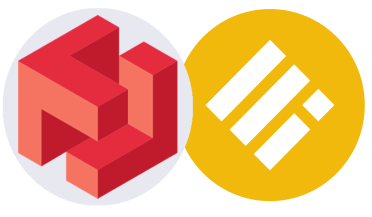
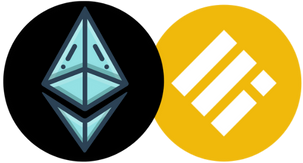
intial

diff --git a/public/index.html b/public/index.html
@@ -10,24 +10,24 @@
     <link href="https://fonts.googleapis.com/css2?family=Lato&display=swap" rel="stylesheet">
     <!--<link href="https://fonts.googleapis.com/css2?family=Kanit:wght@400;600&display=swap" rel="stylesheet" />--> 
     <link href="https://fonts.googleapis.com/css2?family=Bungee+Inline&display=swap" rel="stylesheet">
-    <link rel="shortcut icon" href="%PUBLIC_URL%/IBG.ico" />
+    <link rel="shortcut icon" href="%PUBLIC_URL%/GETh.ico" />
     <link rel="apple-touch-icon" href="%PUBLIC_URL%/logo.png" />
     <link rel="manifest" href="%PUBLIC_URL%/manifest.json" />
     <!-- Meta -->
-    <title>DCXa</title>
+    <title>GravityETH</title>
     <meta
       name="description"
-      content="Cheaper and faster than Uniswap? Discover DCXa Finance, the leading DEX on Binance Smart Chain (BSC) with the best finance in DeFi and a lottery for DCXa."
+      content="Cheaper and faster than Uniswap? Discover GravityETH Finance, the leading DEX on Binance Smart Chain (BSC) with the best finance in DeFi and a lottery for GravityETH."
     />
     <meta name="viewport" content="width=device-width, initial-scale=1, maximum-scale=5, minimum-scale=1" />
     <meta name="theme-color" content="#000000" />
     <meta name="twitter:image" content="" />
     <meta
       name="twitter:description"
-      content="The most popular AMM on BSC by user count! Earn DCXa through yield  or win it in the Lottery, then stake  to earn more DCXa! Initial Farm Offerings (new token launch model pioneered by DCXa Finance), NFTs, and more, on a platform you can trust."
+      content="The most popular AMM on BSC by user count! Earn GravityETH through yield  or win it in the Lottery, then stake  to earn more GravityETH! Initial Farm Offerings (new token launch model pioneered by GravityETH Finance), NFTs, and more, on a platform you can trust."
     />
     <meta name="twitter:card" content="summary" />
-    <meta name="twitter:title" content="DCXa Finance - A next evolution DeFi exchange on Binance Smart Chain (BSC)" />
+    <meta name="twitter:title" content="GravityETH Finance - A next evolution DeFi exchange on Binance Smart Chain (BSC)" />
   </head>
   <body>
     <noscript>You need to enable JavaScript to run this app.</noscript>

diff --git a/src/config/constants/farms.ts b/src/config/constants/farms.ts
@@ -6,14 +6,14 @@ const farms: FarmConfig[] = [
     pid: 0,
     risk: 5,
     isTokenOnly: true,
-    lpSymbol: 'DCXa',
+    lpSymbol: 'GravityETH',
     lpAddresses: {
       97: '',
       1: '0xfecc3b6fab9e07e1f2e6c712d17f86ff2b5ee5ac',
       56: '0xe1F93A26D599aBd6eD93F69f4B2a8567FC9a0aba', // EGG-BUSD LP
       3: '0x72A24b4CD7Dae850250dFDdcdCC2359E26C9A031',
     },
-    tokenSymbol: 'DCXa',
+    tokenSymbol: 'GravityETH',
     tokenAddresses: {
       97: '',
       1: '0xF16CD087e1C2C747b2bDF6f9A5498AA400D99C24',
@@ -26,7 +26,7 @@ const farms: FarmConfig[] = [
   {
     pid: 1,
     risk: 5,
-    lpSymbol: 'DCXa-ETH',
+    lpSymbol: 'GravityETH-ETH',
     platfrom: 'Uniswap',
 
     lpAddresses: {
@@ -35,7 +35,7 @@ const farms: FarmConfig[] = [
       56: '0xe1F93A26D599aBd6eD93F69f4B2a8567FC9a0aba', // EGG-BUSD LP
       3: '0x72A24b4CD7Dae850250dFDdcdCC2359E26C9A031',
     },
-    tokenSymbol: 'DCXa',
+    tokenSymbol: 'GravityETH',
     tokenAddresses: {
       97: '',
       1: '0xF16CD087e1C2C747b2bDF6f9A5498AA400D99C24',
@@ -50,14 +50,14 @@ const farms: FarmConfig[] = [
     risk: 5,
     platfrom: 'Uniswap',
 
-    lpSymbol: 'DCXa-USDT',
+    lpSymbol: 'GravityETH-USDT',
     lpAddresses: {
       97: '',
       1: '0x81a10a45143d7a6b7e1a0e63761b4fba311bb661',
       56: '0xe1F93A26D599aBd6eD93F69f4B2a8567FC9a0aba', // EGG-BUSD LP
       3: '0x72A24b4CD7Dae850250dFDdcdCC2359E26C9A031',
     },
-    tokenSymbol: 'DCXa',
+    tokenSymbol: 'GravityETH',
     tokenAddresses: {
       97: '',
       1: '0xF16CD087e1C2C747b2bDF6f9A5498AA400D99C24',

diff --git a/src/views/Home/components/FarmStakingCard.tsx b/src/views/Home/components/FarmStakingCard.tsx
@@ -94,19 +94,19 @@ const FarmedStakingCard = () => {
             animate={{ scale: 1.1 }}
             transition={{ ease: 'linear', duration: 2, repeat: Infinity, repeatType: 'reverse' }}
           >
-            <CardImage src="/images/IBG.png" alt="iBG logo" width={104} height={64} />{' '}
+            <CardImage src="/images/GETh.png" alt="iBG logo" width={104} height={64} />{' '}
           </Img>
           <div style={{ height: '7rem', display: 'flex', flexDirection: 'column', justifyContent: 'space-between' }}>
             <Block>
               <div>
-                <Text>{TranslateString(544, 'IBG to Harvest')}</Text>
+                <Text>{TranslateString(544, 'GETh to Harvest')}</Text>
                 <Label>${(eggPrice * earningsSum).toFixed(2)}</Label>
               </div>
               <CakeHarvestBalance earningsSum={earningsSum} />
             </Block>
             <Block>
               <div>
-                <Text>{TranslateString(546, 'IBG in Wallet')}</Text>
+                <Text>{TranslateString(546, 'GETh in Wallet')}</Text>
                 <Label>${(eggPrice * cakeBalance).toFixed(2)}</Label>
               </div>
               <CakeWalletBalance cakeBalance={cakeBalance} />

diff --git a/src/views/Farms/components/FarmCard/CardActionsContainer.tsx b/src/views/Farms/components/FarmCard/CardActionsContainer.tsx
@@ -75,7 +75,7 @@ const CardActions: React.FC<FarmCardActionsProps> = ({ farm, ethereum, account }
       <Flex>
         <Text bold color="secondary" fontSize="12px" pr="3px">
           {/* TODO: Is there a way to get a dynamic value here from useFarmFromSymbol? */}
-          DCXa {/* EGG */}
+          GravityETH {/* EGG */}
         </Text>
         <Text bold textTransform="uppercase" color="textSubtle" fontSize="12px">
           {TranslateString(999, 'Earned')}

diff --git a/src/views/Farms/components/FarmCard/ApyCalculatorModal.tsx b/src/views/Farms/components/FarmCard/ApyCalculatorModal.tsx
@@ -67,7 +67,7 @@ const ApyCalculatorModal: React.FC<ApyCalculatorModalProps> = ({
         </GridItem>
         <GridItem>
           <Text fontSize="12px" bold color="textSubtle" textTransform="uppercase" mb="20px">
-            DCXa per $1000 {/* {TranslateString(999, 'EGG per $1000')} */}
+            GravityETH per $1000 {/* {TranslateString(999, 'EGG per $1000')} */}
           </Text>
         </GridItem>
         {/* 1 day row */}

diff --git a/src/style/Global.tsx b/src/style/Global.tsx
@@ -13,8 +13,8 @@ const GlobalStyle = createGlobalStyle`
     font-family: 'Lato', sans-serif;
   }
   body {
-  
-    background-image: url('${({ theme }) => theme.colors.backgroundGif}') ;
+    /* eslint-disable @typescript-eslint/no-empty-interface */
+    background-image: url('${({ theme }) => theme.colors.background}') ;
     background-size: auto 100%;
     background-repeat : no-repeat;
     background-position: center center;

diff --git a/src/views/Farms/Farms.tsx b/src/views/Farms/Farms.tsx
@@ -157,7 +157,7 @@ const Farms: React.FC<FarmsProps> = (farmsProps) => {
       <Head>
         <div style={{ display: 'flex', alignItems: 'center' }}>
           <Img>
-            <img src="/images/IBG.png" alt="logo" style={{ width: '5rem' }} />
+            <img src="/images/GETh.png" alt="logo" style={{ width: '5rem' }} />
           </Img>
           <div style={{ paddingLeft: '1rem' }}>
             <Head1>

diff --git a/src/views/Home/Home.tsx b/src/views/Home/Home.tsx
@@ -78,7 +78,7 @@ const Home: React.FC = () => {
     <Page>
       <Hero>
         <StyledHeading as="h1" size="xl" mb="24px" color="primary1">
-          DCX<SmallHeading>a</SmallHeading>
+          GRAVITY<SmallHeading>ETH</SmallHeading>
         </StyledHeading>
         <Text color="primary1">{/* {TranslateString(578, 'Top 3 best DEFI app on Binance Smart Chain.')} */}</Text>
       </Hero>

diff --git a/src/views/Farms/components/FarmCard/CardHeading.tsx b/src/views/Farms/components/FarmCard/CardHeading.tsx
@@ -38,7 +38,7 @@ const CardHeading: React.FC<ExpandableSectionProps> = ({
     <Wrapper justifyContent="space-between" alignItems="center" mb="12px">
       <img
         src={`/images/egg/${farmImage}.png`}
-        alt="DCXa"
+        alt="GravityETH"
         style={{ width: '5.5rem', height: isToken ? '5.5rem' : '3rem' }}
       />{' '}
       {/* {tokenSymbol} */}

diff --git a/src/views/Farms/components/FarmCard/FarmCard.tsx b/src/views/Farms/components/FarmCard/FarmCard.tsx
@@ -129,7 +129,7 @@ const FarmCard: React.FC<FarmCardProps> = ({ farm, removed, cakePrice, btcPrice,
     : '-'
 
   const lpLabel = farm.lpSymbol
-  const earnLabel = 'DCXa' // 'EGG'
+  const earnLabel = 'GravityETH' // 'EGG'
   const farmAPY =
     farm.apy &&
     farm.apy.times(new BigNumber(100)).toNumber().toLocaleString(undefined, {

diff --git a/src/components/Menu/config.ts b/src/components/Menu/config.ts
@@ -121,7 +121,7 @@ const config: MenuEntry[] = [
   // {
   //   label: 'Audits',
   //   icon: 'AuditIcon',
-  //   href:"https://github.com/IBG-Finance-Defi/IBG-Farms-build/blob/main/audits/eth.pdf"
+  //   href:"https://github.com/GETh-Finance-Defi/GETh-Farms-build/blob/main/audits/eth.pdf"
   // }
 ]
 

diff --git a/src/views/Home/components/CakeStats.tsx b/src/views/Home/components/CakeStats.tsx
@@ -48,7 +48,7 @@ const CakeStats = () => {
     <StyledCakeStats>
       <CardBody>
         <Heading size="lg" mb="24px">
-          {TranslateString(534, 'IBG Stats')}
+          {TranslateString(534, 'GETh Stats')}
         </Heading>
         <div style={{ width: '18rem' }}>
           <Row>
